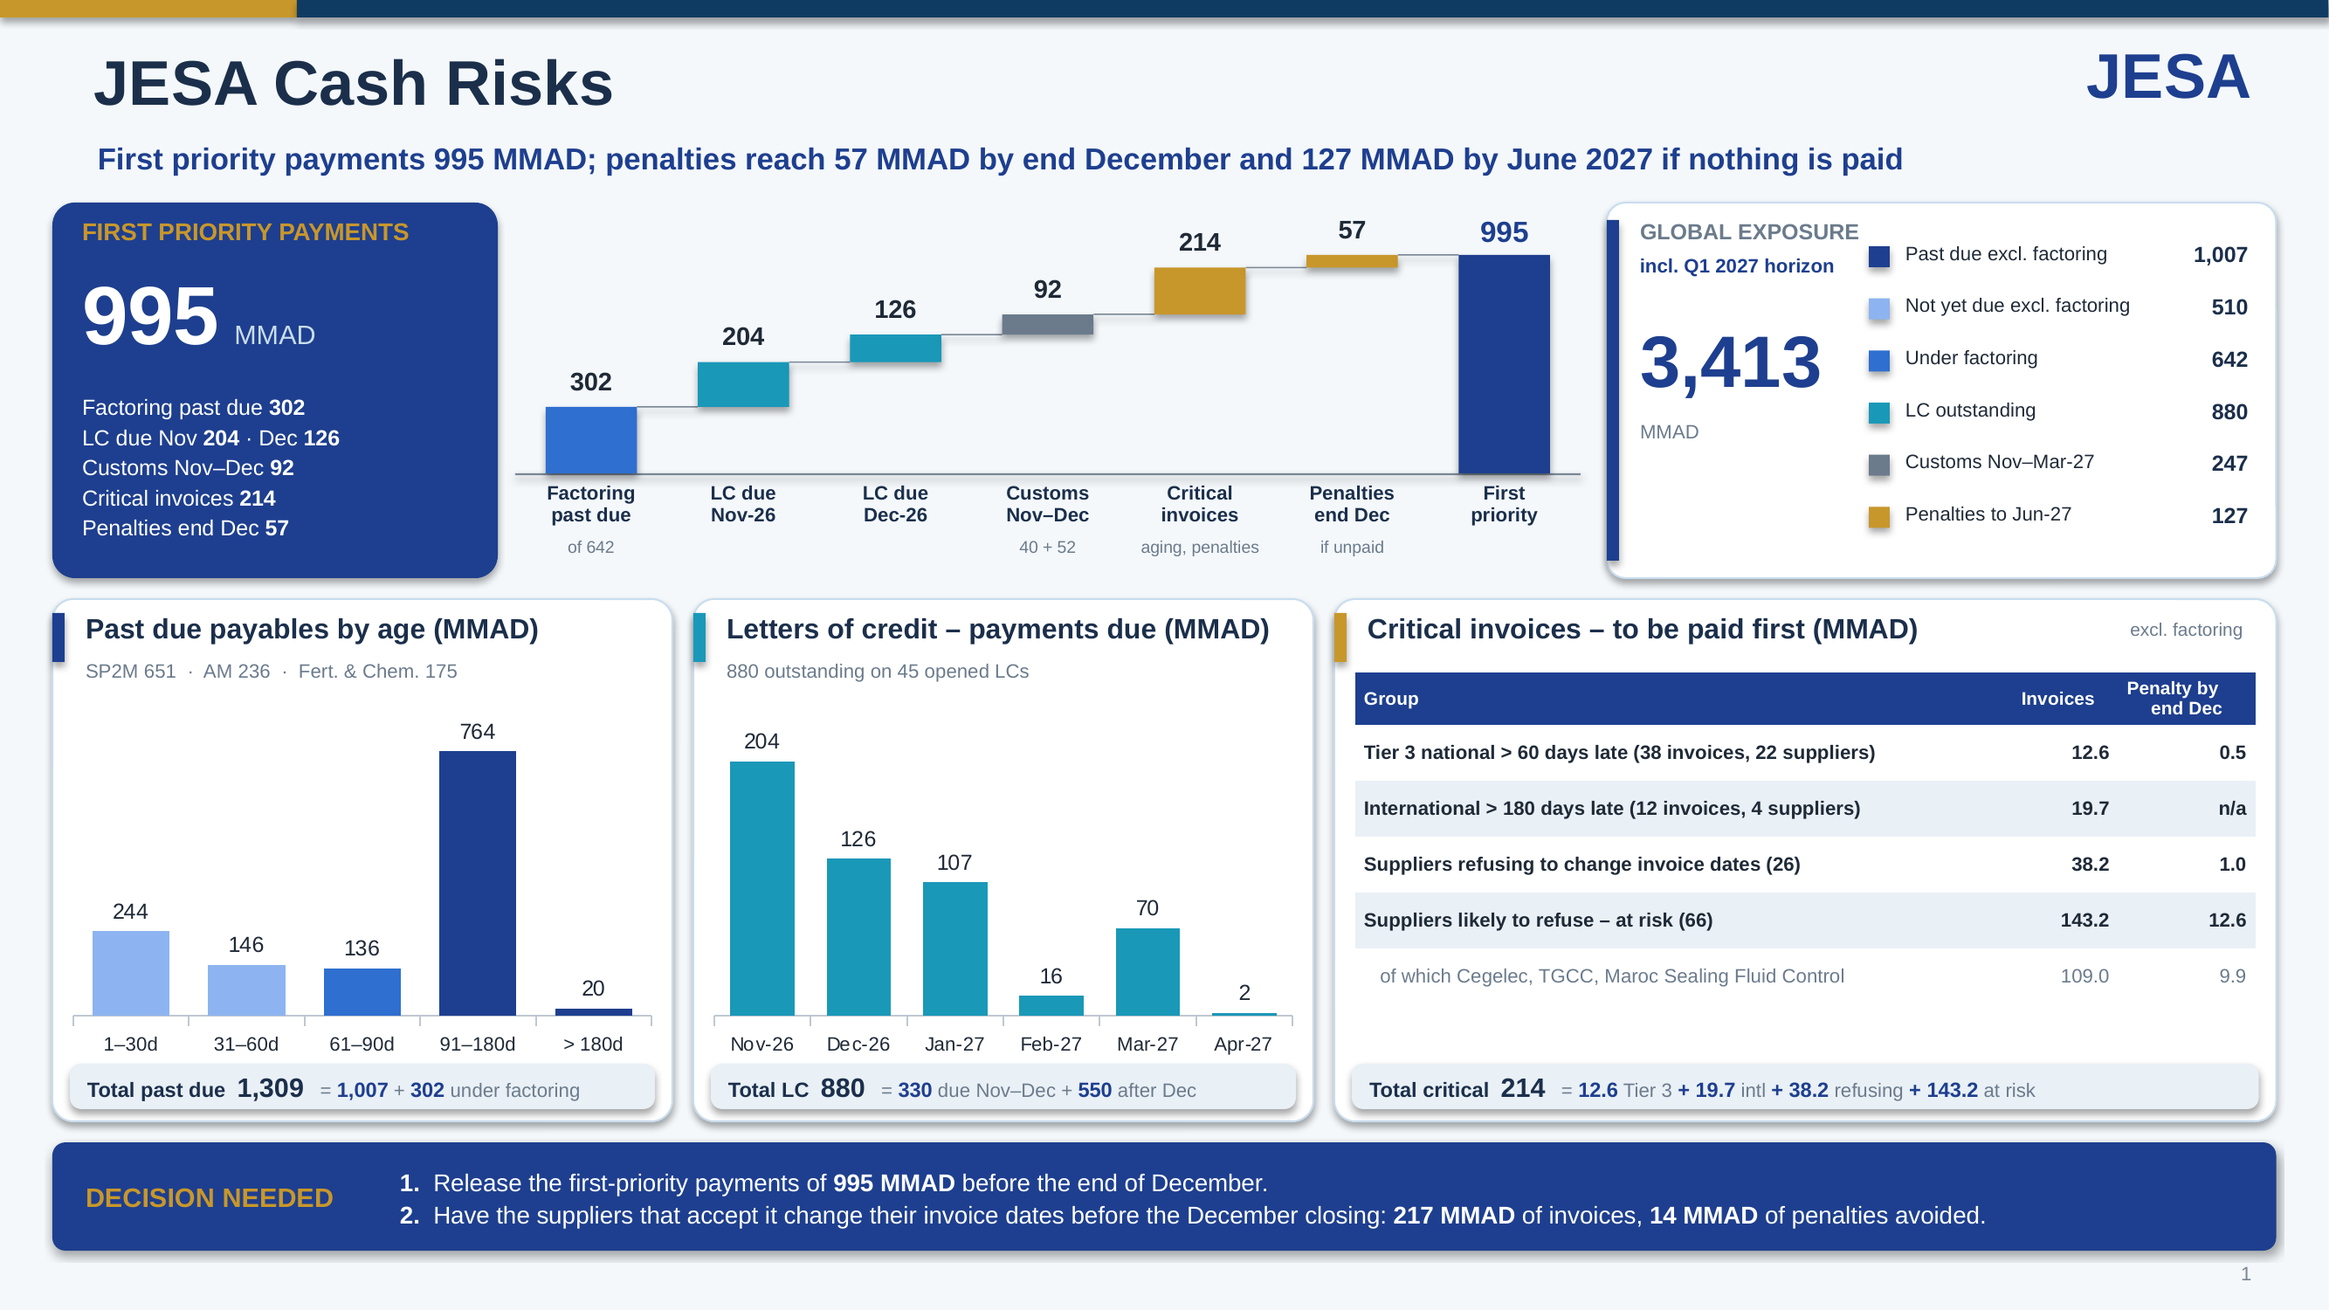
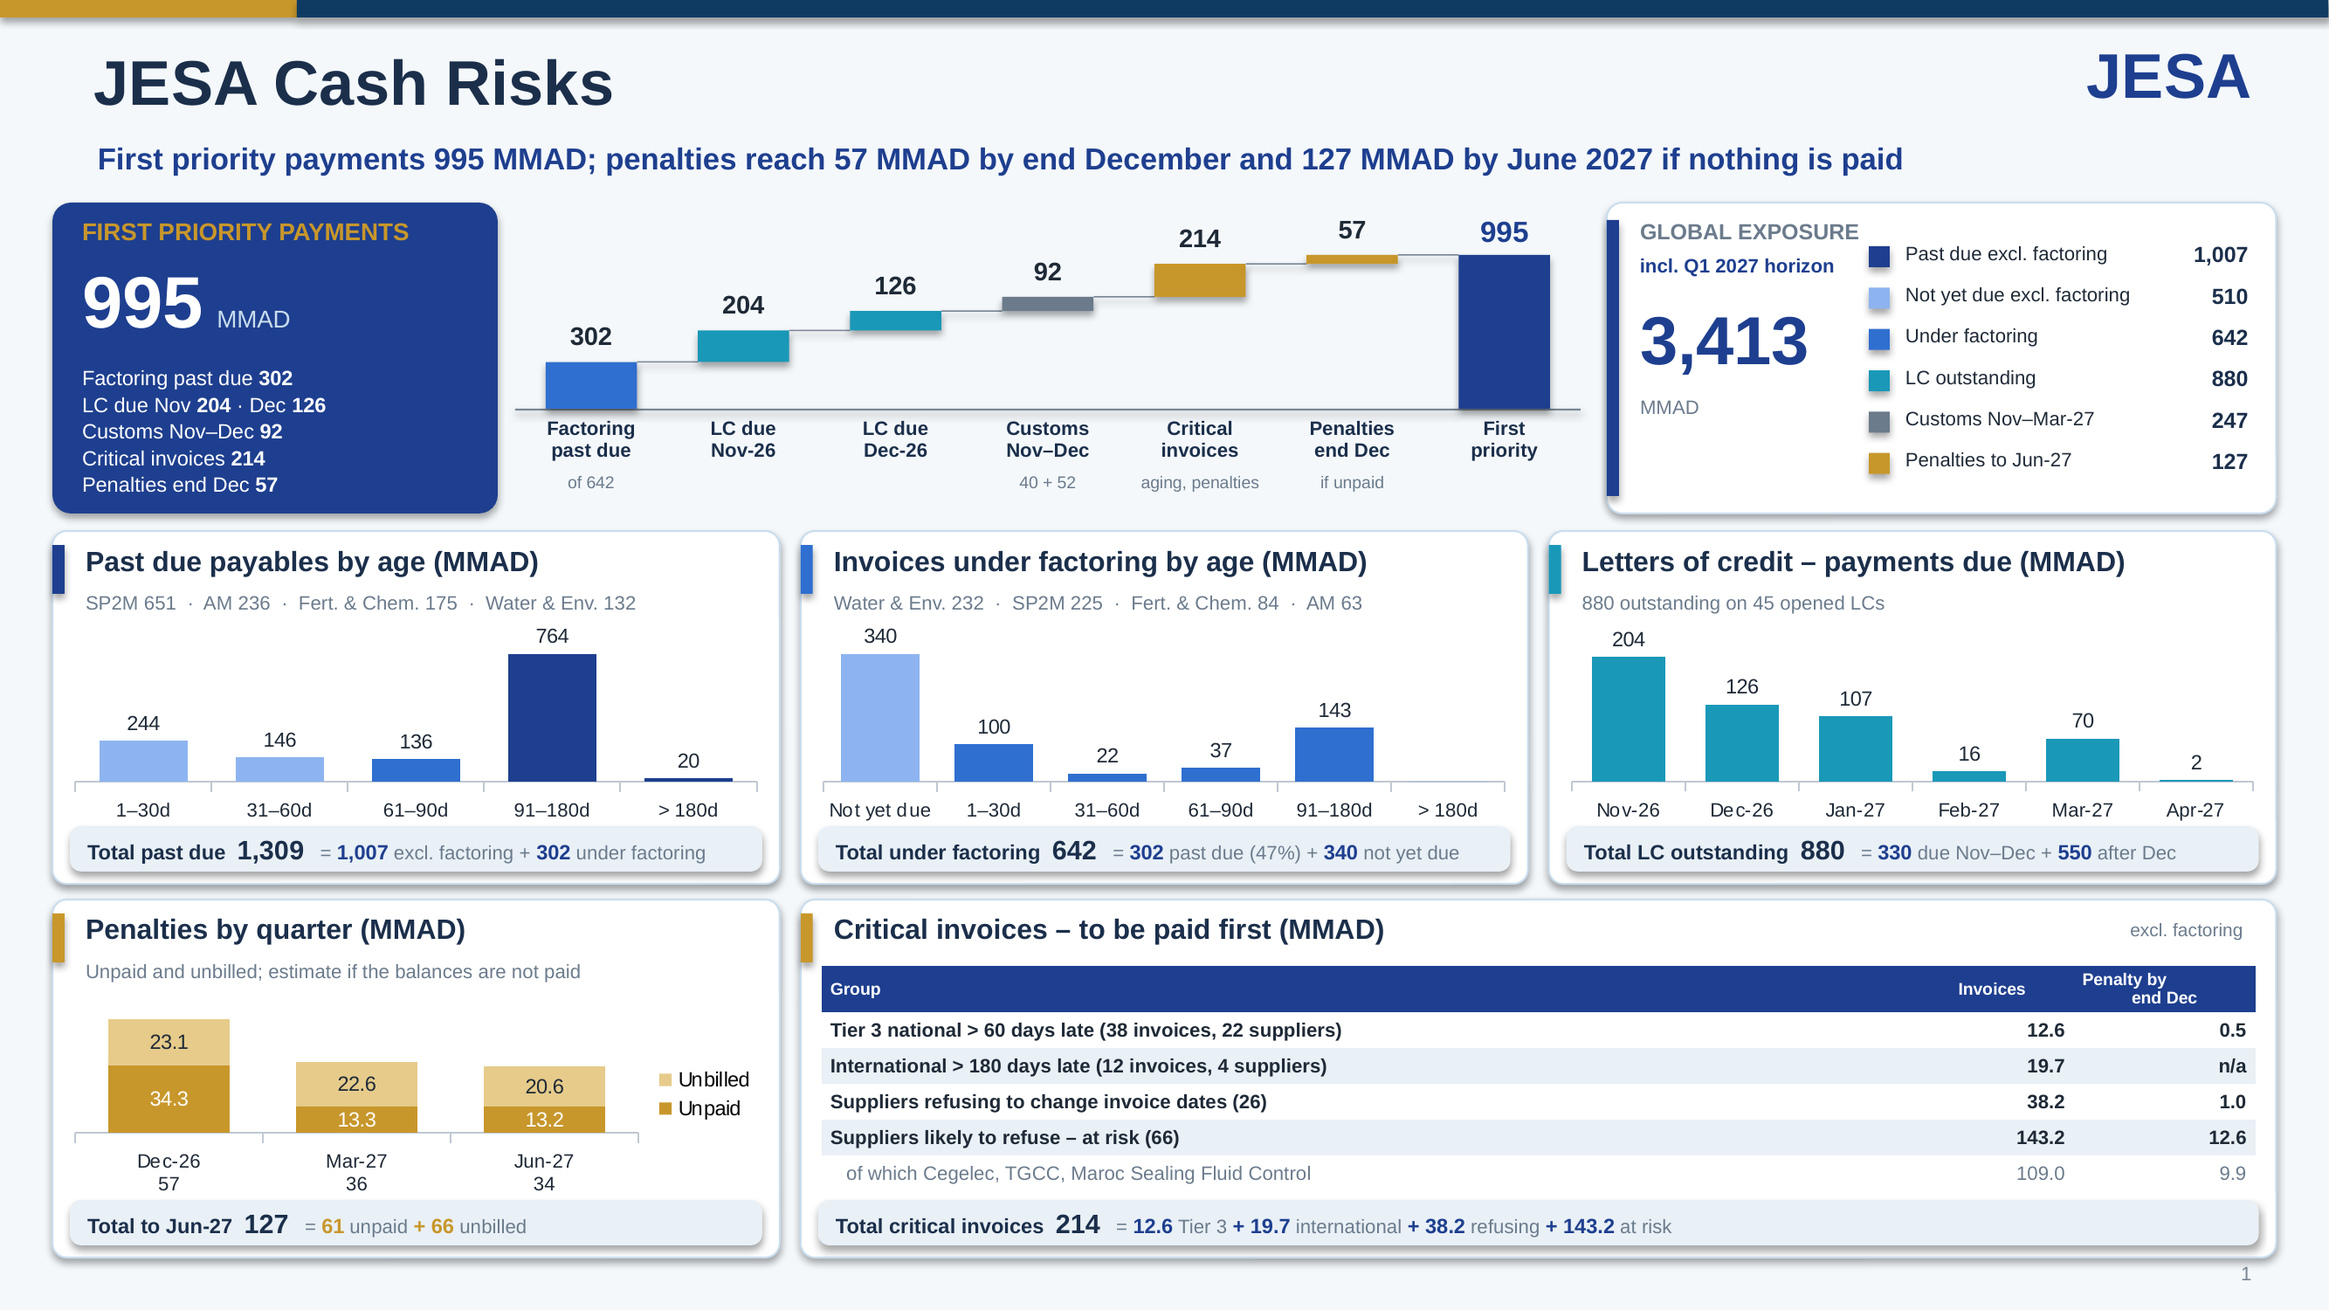
Cash risks slide 1: factoring by age, penalties by quarter, decision band removed
Claude-Session: https://claude.ai/code/session_01GRGYp2p9fdXmxQMcLgyM1e

Changed region(s): [[0.0, 0.184, 0.9959, 0.9813], [0.5602, 0.184, 0.5913, 0.2147]]

diff --git a/weekly-ar-cash-deck/build_deck.py b/weekly-ar-cash-deck/build_deck.py
@@ -1535,7 +1535,7 @@ def build(data, meta, out):
         s = D.slide("JESA Cash Risks")
         tb(s, 0.52, 0.78, 11.2, 0.35, f"First priority payments {f0(_im0)} MMAD" + (f"; penalties reach {f0(pen_t4)} MMAD by end {pen_when} and {f0(pen_tot)} MMAD by {dt.date.fromisoformat(dues[-1] + '-01').strftime('%B %Y')} if nothing is paid" if pen_tot is not None else f"; global exposure {f0(expo)} MMAD {hz}"), size=12.5, bold=True, color=JB)
         # ---- top: first priority (imminent payments, waterfall) and the global exposure
-        ty, th = 1.16, 2.15
+        ty, th = 1.16, 1.78
         def _ml(m): return dt.date.fromisoformat(str(m)[:7] + "-01").strftime("%b")
         lc_im = [(m, mt[m]) for m in months[:2]]   # LC payments due in the month in progress and the next one
         cus_im = cus_cur + (cus_avg if proj_m else 0)   # customs of the same two months: paid to date in the month in progress + next month at the average
@@ -1543,12 +1543,12 @@ def build(data, meta, out):
         imm += (pen_t4 or 0)   # penalties to be paid at the first payment date (end of December)
         rect(s, 0.3, ty, 2.55, th, JB, shape=MSO_SHAPE.ROUNDED_RECTANGLE, radius=0.06)
         tb(s, 0.43, ty + 0.06, 2.35, 0.22, "FIRST PRIORITY PAYMENTS", size=10, bold=True, color=JGD)
-        tb(s, 0.43, ty + 0.32, 2.35, 0.62, [[(f0(imm), {"size": 34, "bold": True, "color": WHITE}), ("  MMAD", {"size": 11, "color": LBLUE})]])
-        tb(s, 0.43, ty + 1.05, 2.35, 1.05, [[("Factoring past due ", {}), (f0(r_fpd), {"bold": True})],
+        tb(s, 0.43, ty + 0.28, 2.35, 0.56, [[(f0(imm), {"size": 30, "bold": True, "color": WHITE}), ("  MMAD", {"size": 10, "color": LBLUE})]])
+        tb(s, 0.43, ty + 0.9, 2.35, 0.86, [[("Factoring past due ", {}), (f0(r_fpd), {"bold": True})],
                                             [("LC due ", {})] + [x for j, (m, v) in enumerate(lc_im) for x in (((" · ", {}),) if j else ()) + ((f"{_ml(m)} ", {}), (f0(v), {"bold": True}))],
                                             [(f"Customs {com}–{proj_m[0] if proj_m else com} ", {}), (f0(cus_im), {"bold": True})],
                                             [("Critical invoices ", {}), ((f0(pinv) if pinv is not None else "–"), {"bold": True})],
-                                            [(f"Penalties end {pen_when[:3]} ", {}), ((f0(pen_t4) if pen_t4 is not None else "–"), {"bold": True})]], size=9, color=WHITE, line_spacing=1.15)
+                                            [(f"Penalties end {pen_when[:3]} ", {}), ((f0(pen_t4) if pen_t4 is not None else "–"), {"bold": True})]], size=8.5, color=WHITE, line_spacing=1.08)
         wcat = [("Factoring\npast due", f"of {f0(r_f)}", r_fpd, JB2)] + [(f"LC due\n{_ml(m)}-{str(m)[2:4]}", "", v, JCY) for m, v in lc_im] + \
                [(f"Customs\n{com}–{proj_m[0] if proj_m else com}", (f"{f0(cus_cur)} + {f0(cus_avg)}" if proj_m else ""), cus_im, SLATE),
                 ("Critical\ninvoices", "aging, penalties", pinv, JGD), (f"Penalties\nend {pen_when[:3]}", "if unpaid", pen_t4, JGD), ("First\npriority", "", imm, JB)]
@@ -1572,8 +1572,8 @@ def build(data, meta, out):
         rect(s, gx_, ty, gw_, th, WHITE, line=LBLUE, shape=MSO_SHAPE.ROUNDED_RECTANGLE, radius=0.05); rect(s, gx_, ty + 0.1, 0.07, th - 0.2, JB)
         tb(s, gx_ + 0.15, ty + 0.07, 1.35, 0.24, "GLOBAL EXPOSURE", size=9, bold=True, color=SLATE)
         tb(s, gx_ + 0.15, ty + 0.27, 1.4, 0.2, hz, size=8, bold=True, color=JB)
-        tb(s, gx_ + 0.15, ty + 0.62, 1.45, 0.5, f0(expo), size=30, bold=True, color=JB)
-        tb(s, gx_ + 0.15, ty + 1.22, 1.45, 0.5, ["MMAD" + ("" if pen_tot is not None else ","), ("" if pen_tot is not None else "before penalties")], size=8, color=SLATE, line_spacing=1.0)
+        tb(s, gx_ + 0.15, ty + 0.52, 1.45, 0.5, f0(expo), size=28, bold=True, color=JB)
+        tb(s, gx_ + 0.15, ty + 1.08, 1.45, 0.5, ["MMAD" + ("" if pen_tot is not None else ","), ("" if pen_tot is not None else "before penalties")], size=8, color=SLATE, line_spacing=1.0)
         grow = [("Past due excl. factoring", r_pd - r_fpd, JB), ("Not yet due excl. factoring", (r_inv - r_pd) - (r_f - r_fpd), JB3), ("Under factoring", r_f, JB2),
                 ("LC outstanding", lc_all, JCY), (f"Customs {com}–{mar_lab}", cus_expo, SLATE), (pen_lab, pen_tot, JGD)]
         rx = gx_ + 1.5; rw = gw_ - 1.5 - 0.12
@@ -1592,37 +1592,47 @@ def build(data, meta, out):
         def B(txt, col): return (txt, {"bold": True, "color": col, "size": 8.5})
         ST = 0.3   # height kept for the total band
         def nocode(t): return re.sub(r"\s*\(\d{4}\)", "", str(t))   # no ledger account numbers on the slide
-        # ============ executive slide: three panels and the decision line
-        ask_h = 0.62; y1 = ty + th + 0.12; h1 = SH - 0.34 - ask_h - 0.12 - y1
-        wP1 = wP2 = 3.55; wP3 = SW - 0.6 - 0.24 - wP1 - wP2; x1, x2 = 0.3, 0.3 + wP1 + 0.12; x3 = x2 + wP2 + 0.12
+        # ============ executive slide: past due, factoring and LC by age / month, then penalties by quarter and the critical invoices
+        y1 = ty + th + 0.1; h1 = 2.02; y2 = y1 + h1 + 0.09; h2 = SH - 0.3 - y2
+        pw = (SW - 0.6 - 0.24) / 3; x1, x2, x3 = 0.3, 0.3 + pw + 0.12, 0.3 + 2 * (pw + 0.12)
         # ---- 1. payables: past due by age
-        panel(x1, y1, wP1, h1, "Past due payables by age (MMAD)", "  ·  ".join(f"{short(r['bu'])} {f0(r['past_due'])}" for r in sorted(api, key=lambda r: -(r["past_due"] or 0))[:3]), JB)
-        ch = bar_chart(s, x1 + 0.05, y1 + 0.56, wP1 - 0.1, h1 - 0.6 - ST, [str(r["bucket"]).replace(" days", "d") for r in r_ag], [("Past due", [(r["amount"] or 0) for r in r_ag])], [JB], legend=False, gap=50, cat_size=8, label_size=9, label_pos=XL_LABEL_POSITION.OUTSIDE_END)
+        panel(x1, y1, pw, h1, "Past due payables by age (MMAD)", "  ·  ".join(f"{short(r['bu'])} {f0(r['past_due'])}" for r in sorted(api, key=lambda r: -(r["past_due"] or 0))[:4]), JB)
+        ch = bar_chart(s, x1 + 0.05, y1 + 0.54, pw - 0.1, h1 - 0.58 - ST, [str(r["bucket"]).replace(" days", "d") for r in r_ag], [("Past due", [(r["amount"] or 0) for r in r_ag])], [JB], legend=False, gap=55, cat_size=8, label_size=8.5, label_pos=XL_LABEL_POSITION.OUTSIDE_END)
         color_points(ch, 0, [JB3, JB3, JB2, JB, JB][:len(r_ag)])
-        total_strip(x1, y1, wP1, h1, "Total past due", f0(r_pd), [("= ", {}), B(f0(r_pd - r_fpd), JB), (" + ", {}), B(f0(r_fpd), JB), (" under factoring", {})])
-        # ---- 2. letters of credit: payments due by month
+        total_strip(x1, y1, pw, h1, "Total past due", f0(r_pd), [("= ", {}), B(f0(r_pd - r_fpd), JB), (" excl. factoring + ", {}), B(f0(r_fpd), JB), (" under factoring", {})])
+        # ---- 2. invoices under factoring: not yet due and past due by age
+        panel(x2, y1, pw, h1, "Invoices under factoring by age (MMAD)", "  ·  ".join(f"{short(r['bu'])} {f0(r['factoring'])}" for r in sorted(api, key=lambda r: -(r.get("factoring") or 0))[:4] if (r.get("factoring") or 0) > 0.5), JB2)
+        fcat = ["Not yet due"] + [str(r["bucket"]).replace(" days", "d") for r in r_ag]; fval = [r_f - r_fpd] + [(r.get("factoring") or 0) for r in r_ag]
+        ch = bar_chart(s, x2 + 0.05, y1 + 0.54, pw - 0.1, h1 - 0.58 - ST, fcat, [("Under factoring", fval)], [JB2], legend=False, gap=45, cat_size=8, label_size=8.5, label_pos=XL_LABEL_POSITION.OUTSIDE_END)
+        color_points(ch, 0, ([JB3] + [JB2] * len(r_ag)))
+        total_strip(x2, y1, pw, h1, "Total under factoring", f0(r_f), [("= ", {}), B(f0(r_fpd), JB), (f" past due ({r_fpd/(r_f or 1)*100:.0f}%) + ", {}), B(f0(r_f - r_fpd), JB), (" not yet due", {})])
+        # ---- 3. letters of credit: payments due by month
         lm = months[:6]; _l2 = sum(mt[m] for m in months[:2])
-        panel(x2, y1, wP2, h1, "Letters of credit – payments due (MMAD)", f"{f0(lc_all)} outstanding on {n_lc} opened LCs", JCY)
-        bar_chart(s, x2 + 0.05, y1 + 0.56, wP2 - 0.1, h1 - 0.6 - ST, [dt.date.fromisoformat(str(m)[:7] + "-01").strftime("%b-%y") for m in lm], [("LC payments", [mt[m] for m in lm])], [JCY], legend=False, gap=50, cat_size=8, label_size=9, label_pos=XL_LABEL_POSITION.OUTSIDE_END)
-        total_strip(x2, y1, wP2, h1, "Total LC", f0(lc_all), [("= ", {}), B(f0(_l2), JB), (f" due {_ml(months[0])}–{_ml(months[1])} + ", {}), B(f0(lc_all - _l2), JB), (f" after {_ml(months[1])}", {})])
-        # ---- 3. critical invoices: to be paid first, by aging and penalties generated
-        panel(x3, y1, wP3, h1, "Critical invoices – to be paid first (MMAD)", None, JGD)
-        tb(s, x3 + wP3 - 1.6, y1 + 0.09, 1.45, 0.22, "excl. factoring" + ("" if has_pen else ", by amount × days late"), size=7.5, color=SLATE, align=PP_ALIGN.RIGHT)
+        panel(x3, y1, pw, h1, "Letters of credit – payments due (MMAD)", f"{f0(lc_all)} outstanding on {n_lc} opened LCs", JCY)
+        bar_chart(s, x3 + 0.05, y1 + 0.54, pw - 0.1, h1 - 0.58 - ST, [dt.date.fromisoformat(str(m)[:7] + "-01").strftime("%b-%y") for m in lm], [("LC payments", [mt[m] for m in lm])], [JCY], legend=False, gap=55, cat_size=8, label_size=8.5, label_pos=XL_LABEL_POSITION.OUTSIDE_END)
+        total_strip(x3, y1, pw, h1, "Total LC outstanding", f0(lc_all), [("= ", {}), B(f0(_l2), JB), (f" due {_ml(months[0])}–{_ml(months[1])} + ", {}), B(f0(lc_all - _l2), JB), (f" after {_ml(months[1])}", {})])
+        # ---- 4. late-payment penalties by quarter: unpaid invoices and unbilled (received, not yet invoiced)
+        panel(x1, y2, pw, h2, "Penalties by quarter (MMAD)", ("Unpaid and unbilled; estimate if the balances are not paid" if pen_rows else None), JGD)
+        if pen_rows:
+            JGD2 = RGBColor(0xE6, 0xCB, 0x8A)
+            def _pname(lab): return "Unpaid" if str(lab).lower().startswith("unpaid") else "Unbilled"
+            pser = [(_pname(lab), v) for lab, v in pen_rows]
+            pcats = [f"{dt.date.fromisoformat(d_ + '-01').strftime('%b-%y')}\n{f0(pen_q[j])}" for j, d_ in enumerate(dues)]
+            bar_chart(s, x1 + 0.05, y2 + 0.52, pw - 0.1, h2 - 0.56 - ST, pcats, pser, [JGD, JGD2][:len(pser)], stacked=True, legend=True, legend_pos=XL_LEGEND_POSITION.RIGHT, gap=55, cat_size=8, label_size=8.5, number_format='#,##0.0', label_colors=[WHITE, DARK][:len(pser)])
+            total_strip(x1, y2, pw, h2, f"Total to {pen_end}", f0(pen_tot), [("= ", {})] + [x for j, (lab, v) in enumerate(pen_rows) for x in (B(("+ " if j else "") + f0(sum(v)), JGD), (" unpaid " if str(lab).lower().startswith("unpaid") else " unbilled ", {}))])
+        else:
+            total_strip(x1, y2, pw, h2, f"Total to {pen_end}", "–", [])
+        # ---- 5. critical invoices: to be paid first, by aging and penalties generated
+        wC = 2 * pw + 0.12; xC = x2
+        panel(xC, y2, wC, h2, "Critical invoices – to be paid first (MMAD)", None, JGD)
+        tb(s, xC + wC - 2.9, y2 + 0.09, 2.75, 0.22, "excl. factoring" + ("" if has_pen else "  ·  ranked by amount × days late"), size=7.5, color=SLATE, align=PP_ALIGN.RIGHT)
         if crit_rows:
             crow = [[lab, f1(a_), pt_] for lab, a_, pt_, _, _ in crit_rows]
-            table(s, x3 + 0.12, y1 + 0.42, wP3 - 0.24, ["Group", "Invoices", f"Penalty by\nend {pen_when[:3]}"], crow, col_w=[3.75, 0.7, 0.8], font_size=8, header_size=7.5, row_h=min(0.32, (h1 - 0.42 - 0.3 - ST - 0.08) / len(crow)), header_h=0.3,
+            table(s, xC + 0.12, y2 + 0.38, wC - 0.24, ["Group", "Invoices", f"Penalty by\nend {pen_when[:3]}"], crow, col_w=[6.0, 0.9, 1.0], font_size=8, header_size=7, row_h=min(0.23, (h2 - 0.38 - 0.26 - ST - 0.08) / len(crow)), header_h=0.26,
                   header_fill=JB, bold_rows=tuple(i for i, r in enumerate(crit_rows) if r[3]), colors={(i, j): SLATE for i, r in enumerate(crit_rows) if not r[4] for j in range(3)})
-        parts = [(a_, lab) for a_, lab in ((t3g["amount"] if t3g else 0, "Tier 3"), (ing["amount"] if ing else 0, "intl"),
+        parts = [(a_, lab) for a_, lab in ((t3g["amount"] if t3g else 0, "Tier 3"), (ing["amount"] if ing else 0, "international"),
                                            ((pcat.get("refusing") or {}).get("amount_excl") or 0, "refusing"), ((pcat.get("at_risk") or {}).get("amount_excl") or 0, "at risk")) if (a_ or 0) > 0.05] if has_pen else []
-        total_strip(x3, y1, wP3, h1, "Total critical", f0(crit_tot), ([("= ", {})] + [x for j, (v, lab) in enumerate(parts) for x in ((B(("+ " if j else "") + f1(v), JB), (f" {lab} ", {})))] if parts else []))
-        # ---- decision line
-        ay = y1 + h1 + 0.12; cc_ = pcat.get("can_change") if has_pen else None
-        rect(s, 0.3, ay, SW - 0.6, ask_h, JB, shape=MSO_SHAPE.ROUNDED_RECTANGLE, radius=0.12)
-        tb(s, 0.45, ay, 1.75, ask_h, "DECISION NEEDED", size=11, bold=True, color=JGD, anchor=MSO_ANCHOR.MIDDLE)
-        asks = [[("1.  ", {"bold": True}), ("Release the first-priority payments of ", {}), (f"{f0(imm)} MMAD", {"bold": True}), (f" before the end of {pen_when}.", {})]]
-        if cc_: asks.append([("2.  ", {"bold": True}), ("Have the suppliers that accept it change their invoice dates before the December closing: ", {}), (f"{f0(cc_['amount'])} MMAD", {"bold": True}), (" of invoices, ", {}),
-                             (f"{f0(cc_['penalty_q4'])} MMAD", {"bold": True}), (" of penalties avoided.", {})])
-        tb(s, 2.25, ay, SW - 0.6 - 2.1, ask_h, asks, size=10, color=WHITE, anchor=MSO_ANCHOR.MIDDLE, line_spacing=1.1)
+        total_strip(xC, y2, wC, h2, "Total critical invoices", f0(crit_tot), ([("= ", {})] + [x for j, (v, lab) in enumerate(parts) for x in ((B(("+ " if j else "") + f1(v), JB), (f" {lab} ", {})))] if parts else []))
 
         # ============ detail slide: factoring by BU, penalties by payment date, customs, suppliers by attitude
         s = D.slide("JESA Cash Risks – detail")

diff --git a/.claude/skills/weekly-ar-deck/SKILL.md b/.claude/skills/weekly-ar-deck/SKILL.md
@@ -214,14 +214,13 @@ The reviewer used to strip the deck by hand before sending; the builder now prod
 
 ## 7d. "JESA Cash Risks" dashboard (stand-alone: executive slide + detail slide)
 
-**Executive format (reviewer, 26-Nov-2026).** Slide 1 = headline with the cost of not acting (penalties by end December
-and by June), the first-priority box and waterfall, the global exposure box, three panels only (past due by age, LC
-payments due, critical invoices) and a **"Decision needed"** band: 1. release the first-priority payments before the
-end of December; 2. have the suppliers that accept it change their invoice dates before the December closing (invoices
-and penalties avoided = AP team category "can change", totals as in their email). Slide 2 "detail" = factoring by BU,
-penalties by payment date, customs paid and projected, unpaid invoices by supplier position on invoice dates. No
-ledger account numbers (4411 / 4417) and "Q4", not "T4", on the slides. The reviewer may change the wording of the
-decision line: ask before a presentation to a new audience. The notes below describe the content of the blocks.
+**Format as agreed with the reviewer (26-Nov-2026).** Slide 1 = headline with the cost of not acting (penalties by end
+December and by June), the first-priority box and waterfall, the global exposure box, then five panels: past due
+payables by age, invoices under factoring by age (not yet due + past due buckets), LC payments due, penalties by
+quarter (unpaid and unbilled, stacked) and critical invoices. **No "decision needed" band** (tried and removed at the
+reviewer's request). Slide 2 "detail" = factoring by BU, penalties by payment date, customs paid and projected, unpaid
+invoices by supplier position on invoice dates. No ledger account numbers (4411 / 4417) and "Q4", not "T4", on the
+slides. The notes below describe the content of the blocks.
 
 `build_deck.py --only risk --out output/JESA_Cash_Risks_<week>.pptx` (built by `run_week.sh`; `--with-risk` puts it in the
 deck after the LC slide, only when asked). Content:
